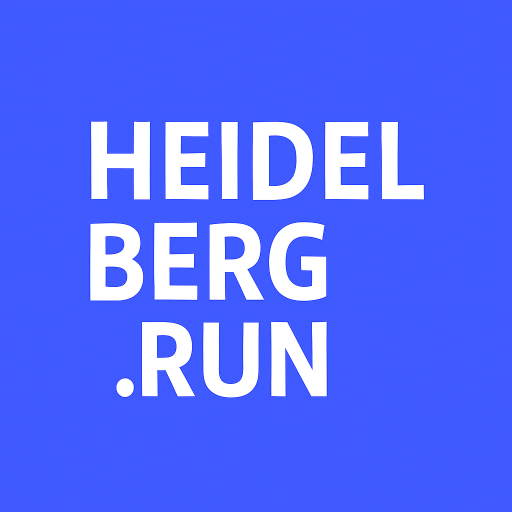
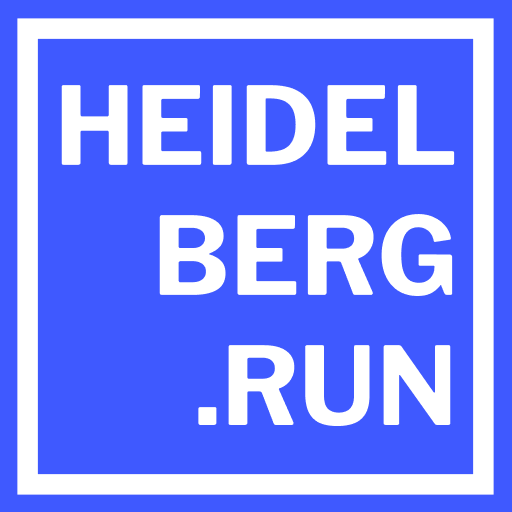
Update 2025-10-30 (#5)
* update logo by figma

* update CRON

* logo update

* update impressum

diff --git a/templates/impressum.html b/templates/impressum.html
@@ -8,8 +8,8 @@
         </h2>
         <div class="box">
             Sven Giegerich<br />
-            Wiesenstraße 33<br />
-            63785 Obernburg<br /><br />
+            Gaisbergstrasse 97<br />
+            69115 Heidelberg<br /><br />
             heidelberg-run@mailbox.org<br />
         </div>
 
